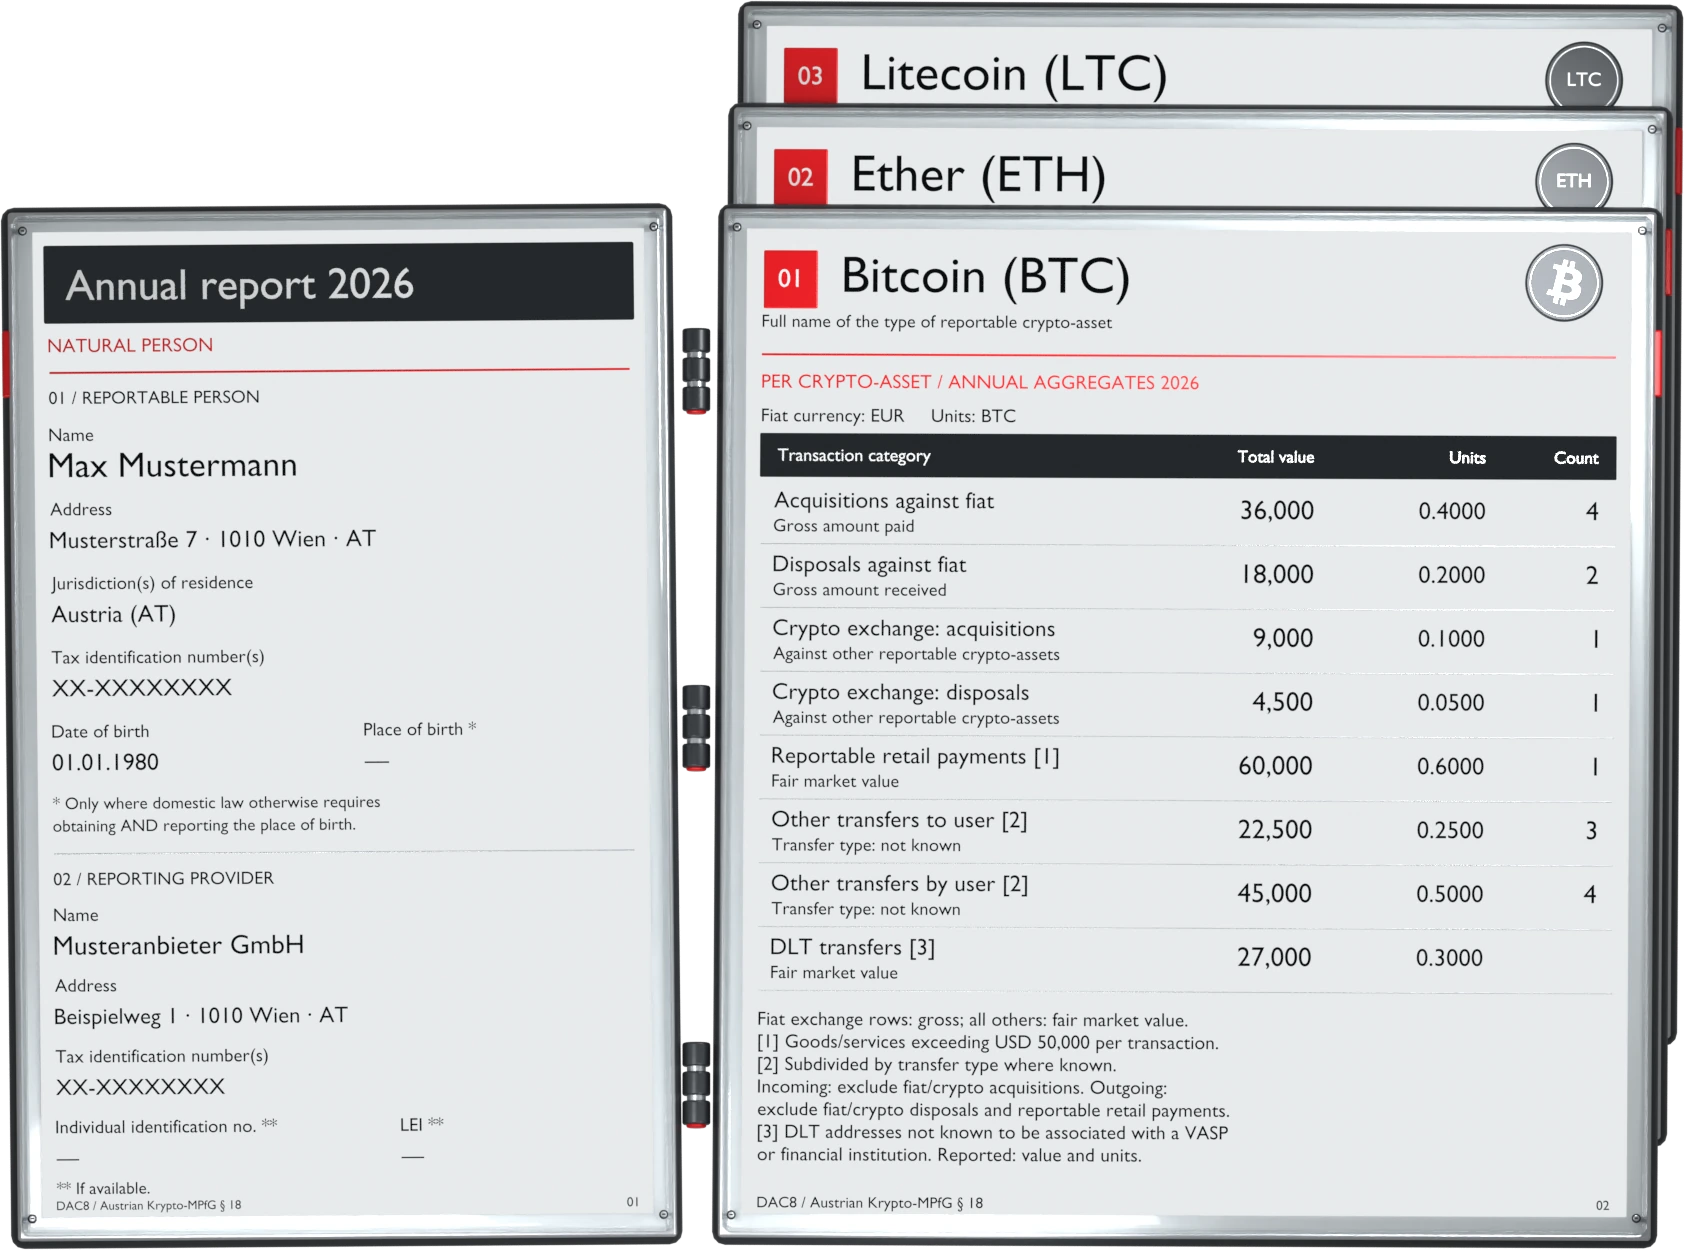
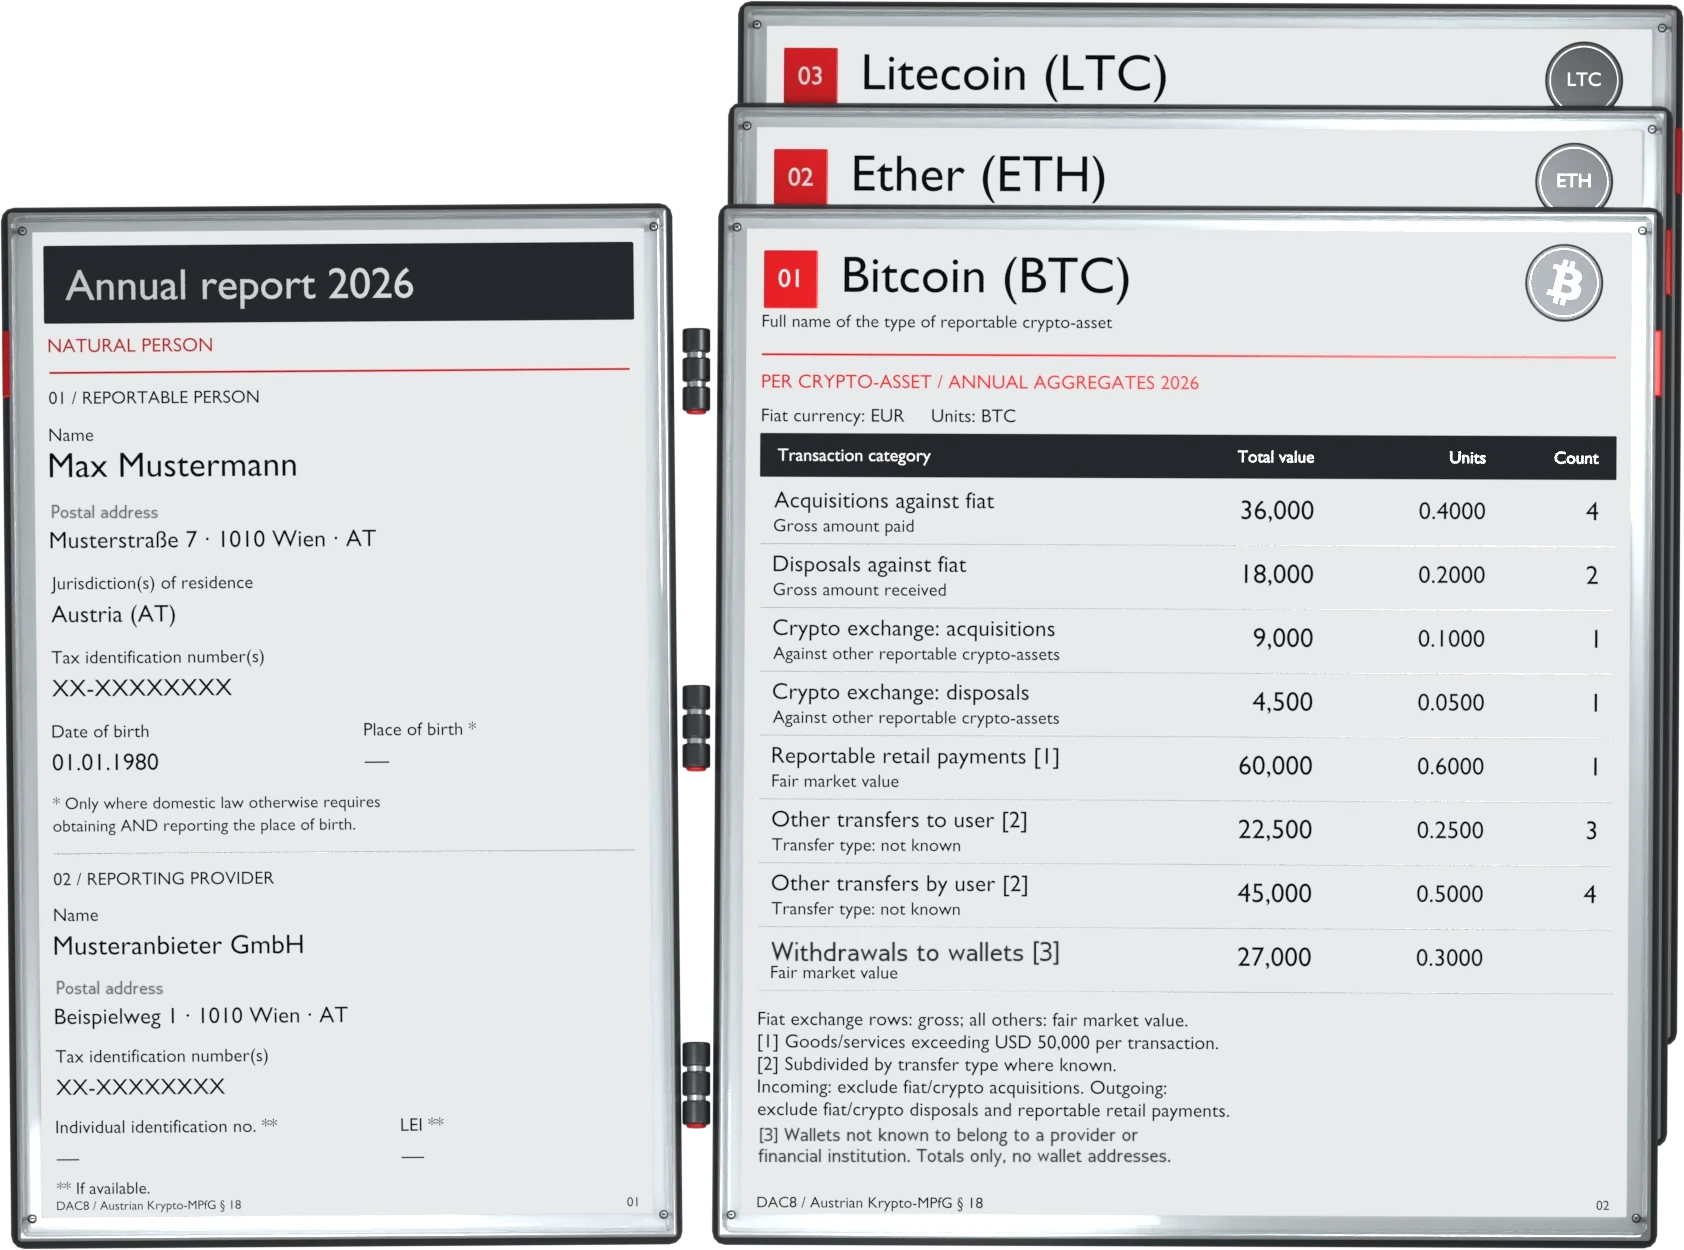
Call the wallet row what the law means: withdrawals to wallets
The specimen report said "DLT-Übertragungen" and "DLT-Adressen ... VASP",
jargon our readers do not know. The row covers transfers the provider
makes to addresses it cannot link to a provider or financial institution
(DAC8 Annex VI II.B.3(i), § 18 Abs. 1 Z 3 lit. i Krypto-MPfG, § 11 KStTG):
outgoing only, reported as totals of value and units, without wallet
addresses and without a count. Both renders now say "Auszahlungen an
Wallets" / "Withdrawals to wallets" with a plain footnote, and the bare
"Adresse" / "Address" labels read "Anschrift" / "Postal address".

diff --git a/src/data/artwork.ts b/src/data/artwork.ts
@@ -60,6 +60,11 @@ export const artwork = {
       alt: "Illustration: a bar labelled 100 %, all customers, without suspicion, is connected by red lines to ten personal record cards. Above it sits a financial record on Max Mustermann with his home address and annual totals: purchases 0.35 BTC, transfers 0.18 BTC.",
     },
   },
+  // The wallet row and the postal address labels were retouched after the
+  // render: "Auszahlungen an Wallets" / "Withdrawals to wallets" for the
+  // law's transfers to addresses with no known provider (DAC8 Annex VI,
+  // II.B.3(i); § 18 Abs. 1 Z 3 lit. i Krypto-MPfG), and "Anschrift" /
+  // "Postal address". Keep these labels when the lab renders it again.
   reportAssets: {
     image: { de: reportAssets, en: reportAssetsEn },
     de: {
